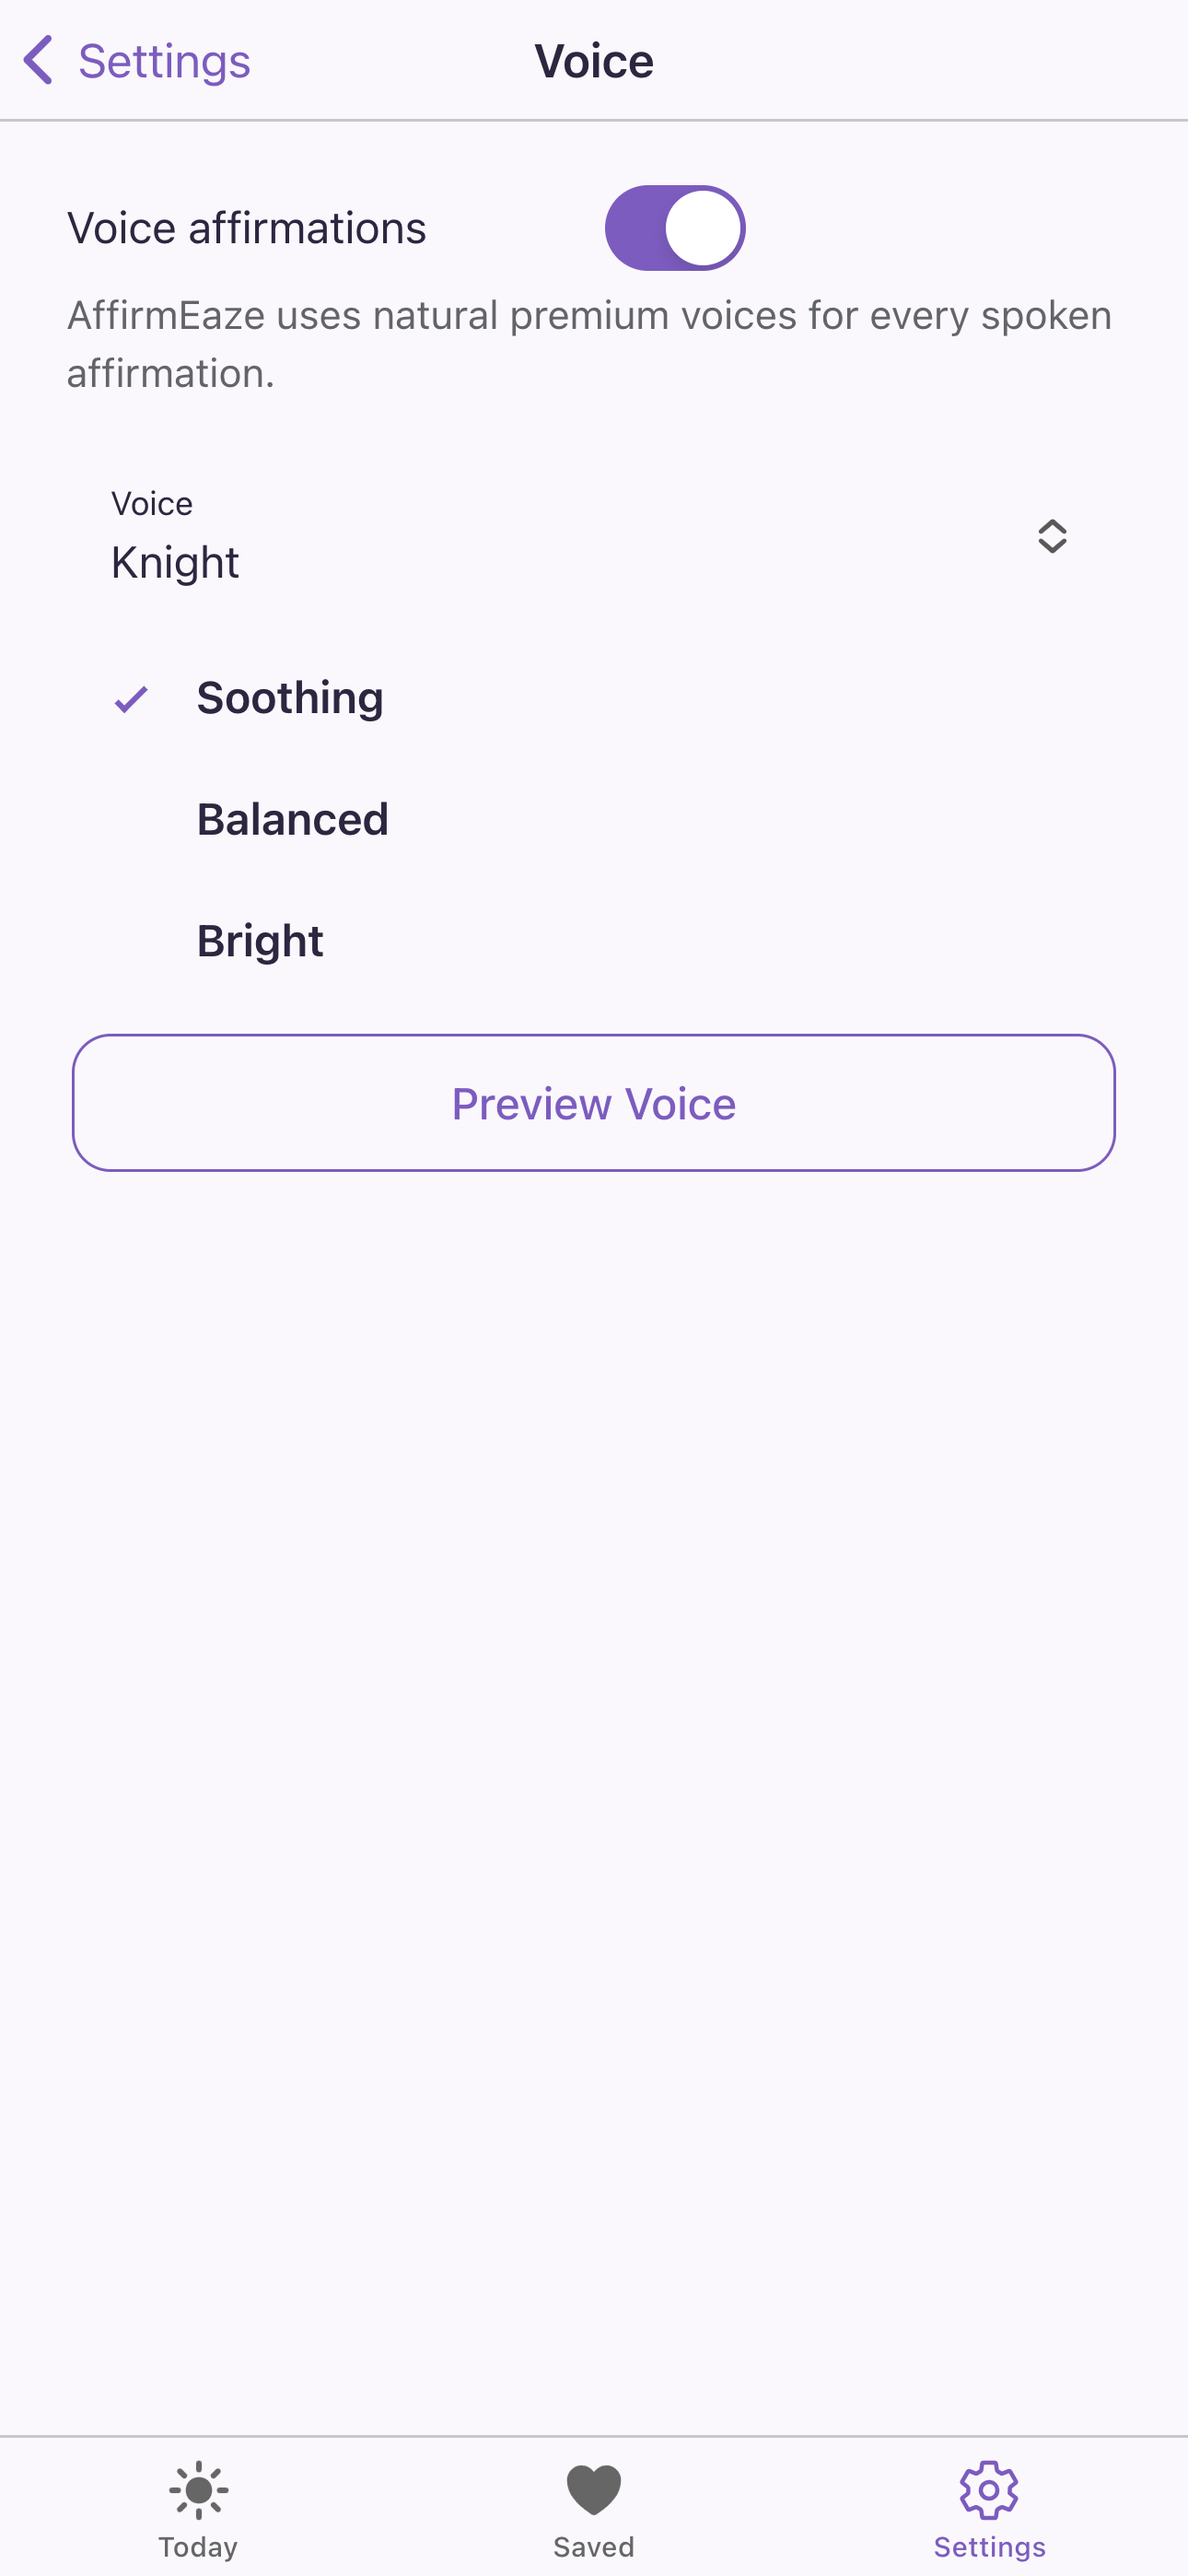
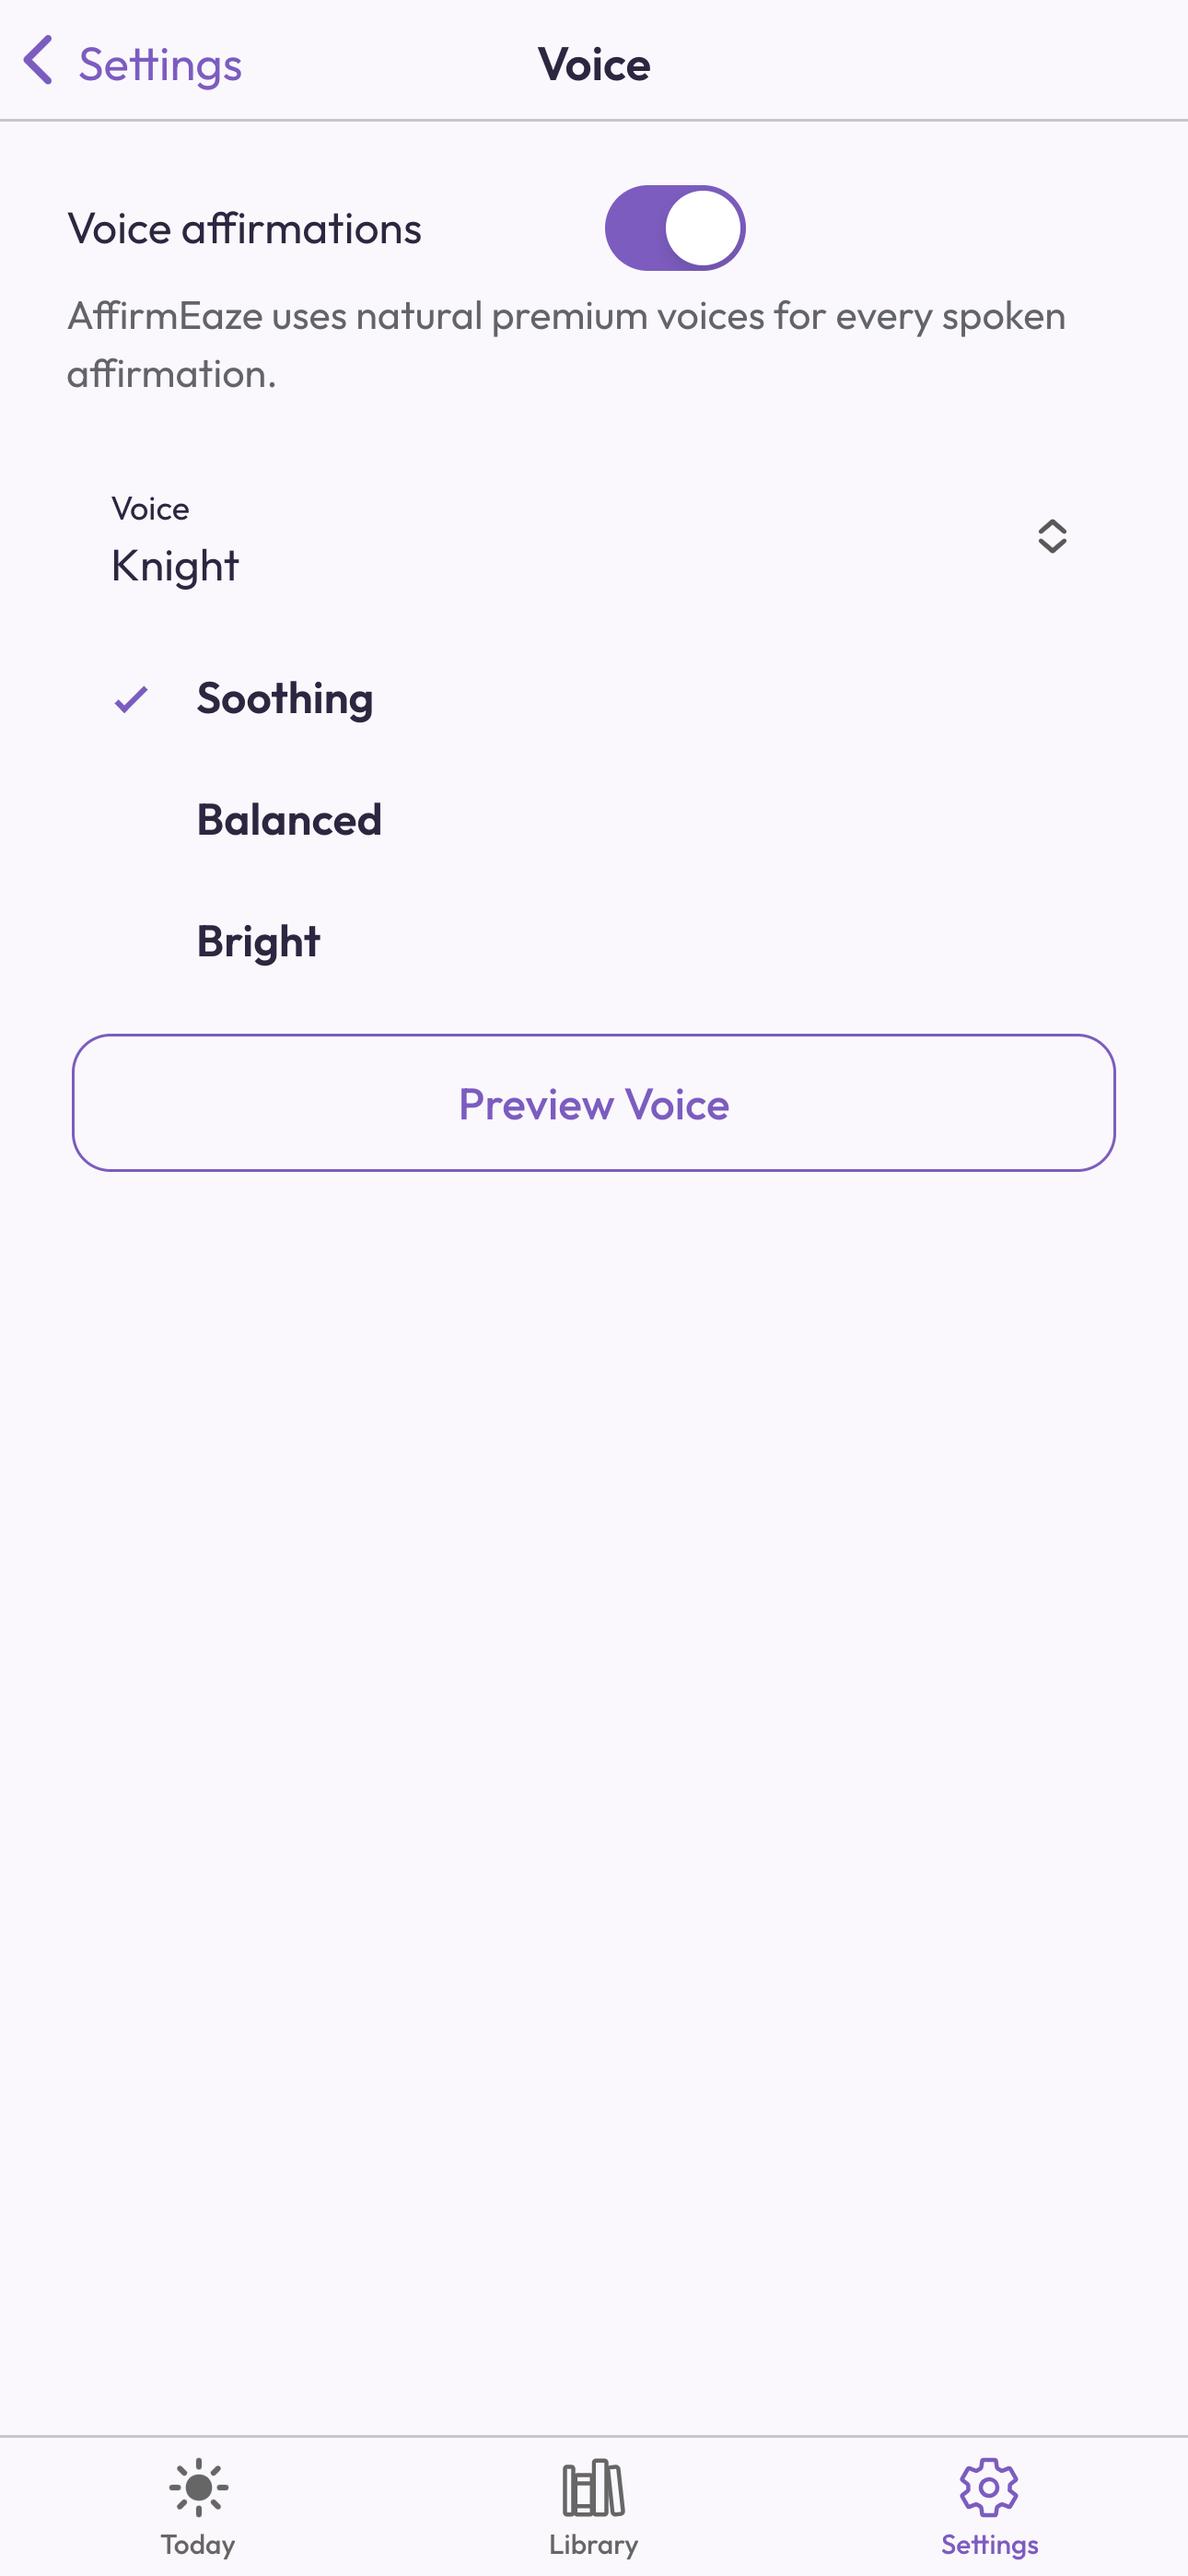
Refresh App Store screenshots and align store copy with Library and soft preview.

diff --git a/docs/app-store-metadata.md b/docs/app-store-metadata.md
@@ -22,16 +22,17 @@ Start your day with calm, spoken affirmations. Personalize your focus, build str
 
 AffirmEaze is your daily space for calm self-belief.
 
-Build a gentle daily practice with natural premium voices, personalized focus areas, saved favorites, custom affirmations, and streak tracking.
+Build a gentle daily practice with natural premium voices, personalized focus areas, a Library for browse/saved/custom lines, and streak tracking.
 
 **What’s included in Premium:**
 
 • Natural premium voices for every spoken affirmation  
 • One daily affirmation tailored to your focus areas  
 • Mantra-style repeats with calm delivery  
-• Saved favorites and custom affirmations  
+• Library — browse, save favorites, and add custom lines  
 • Daily reminders on your schedule  
 • Fresh lines with "Another line" on Today  
+• Home Screen widget for today’s line  
 • Everything stored privately on your device  
 
 AffirmEaze is designed to feel soft and unhurried — like a quiet moment before the day begins.
@@ -73,12 +74,13 @@ Optional — leave blank for v1 or use your future website.
 ## Review notes (paste into App Review Information)
 
 ```
-AffirmEaze is a subscription-only affirmation app.
+AffirmEaze is a subscription affirmation app with a short free preview.
 
 Flow:
-1. User completes onboarding (name, focus areas, voice/reminder preferences)
-2. User sees paywall, picks monthly or annual, and starts a 7-day free trial via Apple In-App Purchase
-3. After subscribing, user accesses Today, Saved, and Settings
+1. User completes onboarding (focus areas, voice, reminder preferences)
+2. User can try Today once (soft preview). After first practice completes, the paywall appears
+3. User picks monthly or annual and starts a 7-day free trial via Apple In-App Purchase
+4. After subscribing, user accesses Today, Library, and Settings
 
 No login or cloud account. Data is stored locally on device.
 "Lock App" in Settings returns user to a local lock screen; data remains on device.
@@ -87,6 +89,8 @@ Restore Purchases is on the paywall and in Settings → Subscription.
 Test subscription products:
 - com.affirmationflow.app.premium.monthly
 - com.affirmationflow.app.premium.yearly
+
+Dev builds may use VITE_SUBSCRIPTION_DEV_BYPASS — disable that for App Review builds.
 ```
 
 ## Subscription display names (App Store Connect)
@@ -96,6 +100,6 @@ Test subscription products:
 | `com.affirmationflow.app.premium.monthly` | AffirmEaze Premium Monthly | $4.99 |
 | `com.affirmationflow.app.premium.yearly` | AffirmEaze Premium Annual | $39.99 |
 
-**Monthly description:** Full access — natural premium voices, daily affirmations, saved favorites, AI, and reminders.
+**Monthly description:** Full access — natural premium voices, daily affirmations, Library, and reminders.
 
 **Annual description:** Full access with natural premium voices. Best value — save vs monthly.
